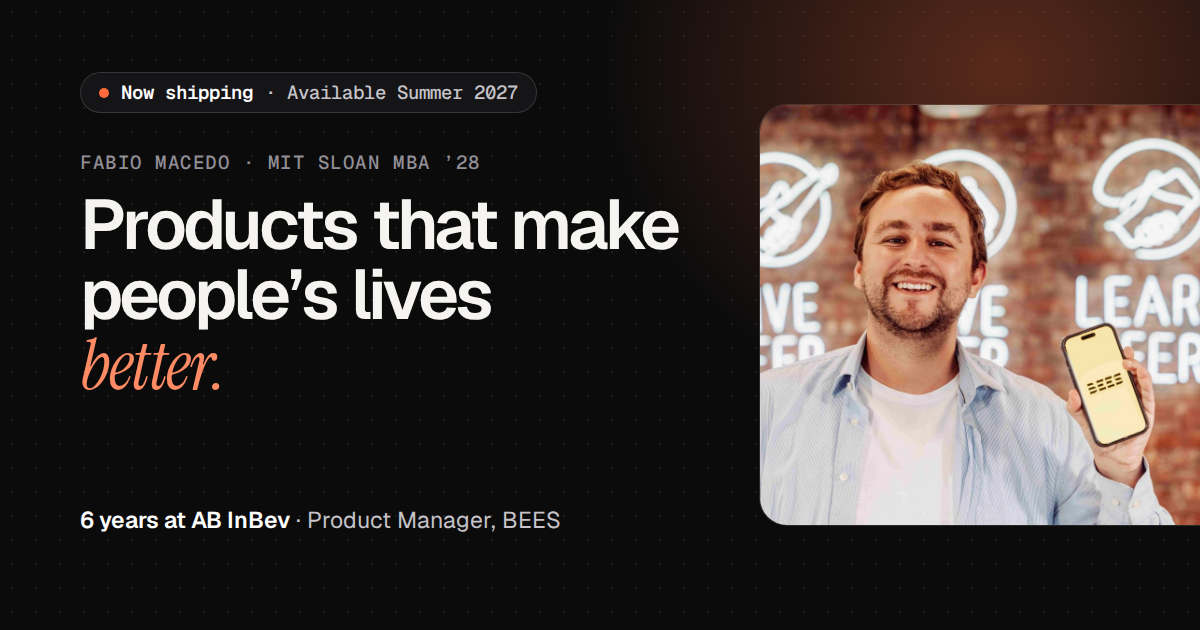
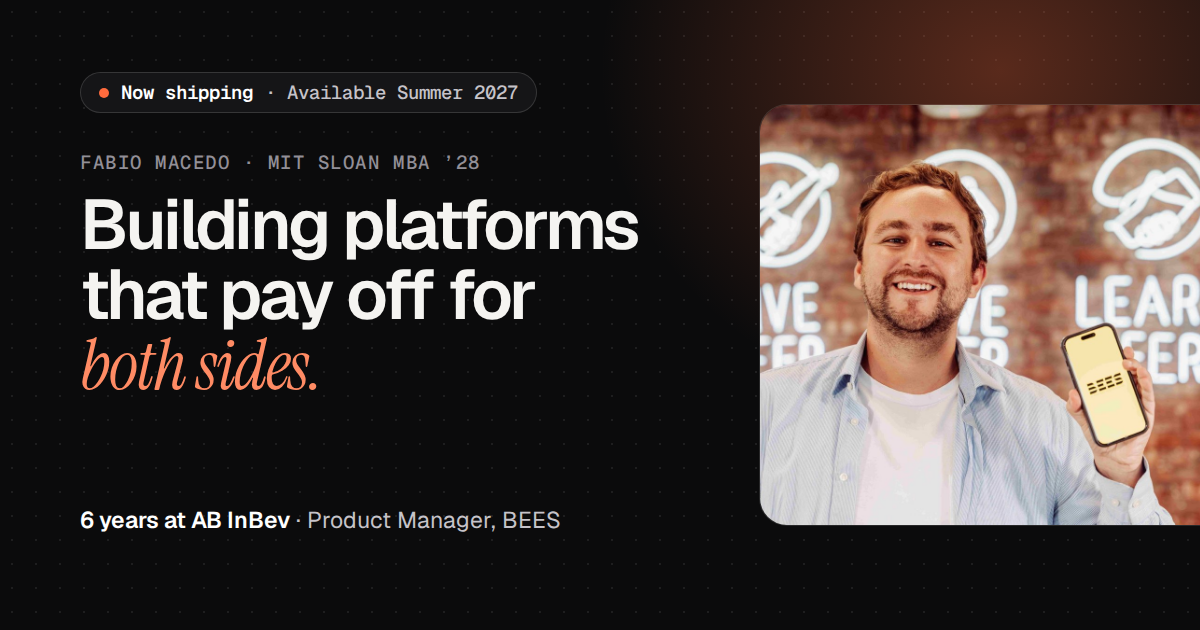
Apply third recruiter review: headline, credibility, photo card
- Headline: "Building platforms that pay off for both sides."
- +17.1% restated as year-over-year first-time purchases; the model was
  the only distribution change that year, with a 10% control group kept
  on the old model.
- Third-party deal: "Led ... end to end, from first contact through
  negotiation, pricing and launch."
- Chips: AB InBev Merit Award 2023-25 (top 5-10%); "Global Management
  Trainee" instead of "LDP".
- Photo card is now just the photo; no repeated stats, CV button or
  title label.
- Life coach only in Interests; roadmap leads with marketplaces and
  commerce.
- Print layout no longer leaves blank areas; small-phone fixes.

Claude-Session: https://claude.ai/code/session_01EuFxkNAtcpV4qLw3Jrt2bZ

Changed region(s): [[0.0617, 0.3016, 0.5858, 0.6333]]

diff --git a/index.html b/index.html
@@ -4,7 +4,7 @@
 <meta charset="utf-8">
 <meta name="viewport" content="width=device-width, initial-scale=1">
 <title>Fabio Macedo · Product Manager</title>
-<meta name="description" content="Product Manager building products that make people’s lives better. Six years at AB InBev, the last as Product Manager for BEES, serving 300,000 shopkeepers in Peru. MIT Sloan MBA '28.">
+<meta name="description" content="Product Manager building platforms that pay off for both sides. Six years at AB InBev, the last as Product Manager for BEES, serving 300,000 shopkeepers in Peru. MIT Sloan MBA '28.">
 <meta name="author" content="Fabio Macedo">
 <meta name="color-scheme" content="light dark">
 <link rel="canonical" href="https://fabiomn97.github.io/Who-I-Am/">
@@ -200,7 +200,8 @@ em.s{font-family:var(--serif); font-style:italic; font-weight:400; letter-spacin
   content:""; position:absolute; z-index:-1; width:720px; height:520px; right:-160px; top:-120px;
   background:radial-gradient(closest-side, var(--accent-soft), transparent); filter:blur(10px);
 }
-.hero-grid{display:grid; grid-template-columns:minmax(0,1.32fr) minmax(0,.88fr); gap:clamp(36px,5vw,72px); align-items:center}
+.hero-grid{display:grid; grid-template-columns:minmax(0,1.5fr) minmax(0,.7fr); gap:clamp(36px,5vw,72px); align-items:center}
+
 .announce{
   display:inline-flex; align-items:center; gap:10px; max-width:100%;
   padding:7px 8px 7px 12px; border-radius:99px; text-decoration:none;
@@ -219,7 +220,7 @@ em.s{font-family:var(--serif); font-style:italic; font-weight:400; letter-spacin
 .hero-id .hero-name{margin-top:5px; line-height:1.4}
 .hero-tag{margin-top:18px; font-size:clamp(19px,2vw,23px); font-weight:560; color:var(--ink); letter-spacing:-.02em}
 .hero-name{margin-top:30px; font:500 13px/1 var(--mono); letter-spacing:.08em; text-transform:uppercase; color:var(--ink-3)}
-.hero h1{margin-top:14px; font-size:clamp(42px,6.6vw,82px); letter-spacing:-.045em; line-height:.98; font-weight:600}
+.hero h1{margin-top:14px; font-size:clamp(34px,5.4vw,70px); letter-spacing:-.045em; line-height:.98; font-weight:600}
 .hero h1 em.s{font-size:1.06em; letter-spacing:-.02em; padding-right:.04em}
 .hero-sub{margin-top:24px; max-width:56ch; font-size:clamp(17px,1.6vw,19.5px); line-height:1.55; color:var(--ink-2)}
 .hero-sub strong{color:var(--ink); font-weight:600}
@@ -233,11 +234,7 @@ em.s{font-family:var(--serif); font-style:italic; font-weight:400; letter-spacin
   position:relative; background:var(--surface); border:1px solid var(--line); border-radius:var(--r-xl);
   box-shadow:var(--shadow-lg); overflow:hidden; max-width:430px; justify-self:end; width:100%;
 }
-.pcard-top{display:flex; align-items:center; justify-content:space-between; padding:12px 14px 12px 16px; border-bottom:1px solid var(--line-2)}
-.dots{display:flex; gap:6px}
-.dots i{width:10px; height:10px; border-radius:50%; background:var(--line); display:block}
-.pcard-top .chip{font-size:11px}
-.pcard-photo{position:relative; aspect-ratio:4/3; overflow:hidden; background:var(--surface-2)}
+.pcard-photo{position:relative; aspect-ratio:4/5; overflow:hidden; background:var(--surface-2)}
 .pcard-photo img{width:100%; height:100%; object-fit:cover; object-position:50% 40%}
 .pcard-photo .tag{
   position:absolute; left:14px; bottom:14px; display:inline-flex; align-items:center; gap:8px;
@@ -245,18 +242,6 @@ em.s{font-family:var(--serif); font-style:italic; font-weight:400; letter-spacin
   background:rgba(12,12,13,.62); -webkit-backdrop-filter:blur(8px); backdrop-filter:blur(8px);
 }
 .pcard-photo .tag .pulse{color:#FF8B64}
-.pcard-body{padding:18px 18px 8px}
-.pcard-title{display:flex; align-items:baseline; justify-content:space-between; gap:12px}
-.pcard-title h3{font-size:21px; letter-spacing:-.025em}
-.pcard-title span{font:500 12px/1 var(--mono); color:var(--ink-3)}
-.pcard-role{margin-top:4px; font-size:14.5px; color:var(--ink-3)}
-.spec-list{margin-top:14px; border-top:1px solid var(--line-2)}
-.spec-list div{display:flex; justify-content:space-between; gap:16px; padding:9px 0; border-bottom:1px solid var(--line-2); font-size:14px}
-.spec-list div:last-child{border-bottom:0}
-.spec-list dt{color:var(--ink-3); font:500 12px/1.6 var(--mono); letter-spacing:.02em; text-transform:uppercase; flex:none}
-.spec-list dd{margin:0; color:var(--ink); text-align:right; font-weight:500}
-.pcard-foot{padding:0 18px 18px}
-.pcard-foot .btn{width:100%}
 
 @media (max-width:900px){
   .hero-grid{grid-template-columns:1fr}
@@ -610,9 +595,10 @@ em.s{font-family:var(--serif); font-style:italic; font-weight:400; letter-spacin
 .tool span{font-size:15px; color:var(--ink-2)}
 @media (max-width:520px){.tool{grid-template-columns:1fr; gap:4px}}
 .term{background:#0E0E10; color:#E9E7E4; border-radius:var(--r-lg); border:1px solid rgba(255,255,255,.08); box-shadow:var(--shadow-lg); overflow:hidden; font:400 13.5px/1.75 var(--mono)}
+.dots{display:flex; gap:6px}
+.dots i{width:10px; height:10px; border-radius:50%; background:var(--line); display:block}
 .term-top{display:flex; align-items:center; gap:12px; padding:12px 14px; border-bottom:1px solid rgba(255,255,255,.08); color:#8E8B92; font-size:12px}
-.term-top .dots i{background:rgba(255,255,255,.16)}
-.term pre{margin:0; padding:18px 18px 20px; white-space:pre; overflow-x:auto; font:inherit}
+.term-top .term pre{margin:0; padding:18px 18px 20px; white-space:pre; overflow-x:auto; font:inherit}
 @media (max-width:560px){.term{font-size:11px; line-height:1.7} .term pre{padding:16px 14px 18px}}
 .term .p{color:#FF8B64} .term .c{color:#8E8B92} .term .ok{color:#46D18C} .term .w{color:#fff; font-weight:600}
 @media (max-width:860px){.build-grid{grid-template-columns:1fr}}
@@ -654,10 +640,16 @@ em.s{font-family:var(--serif); font-style:italic; font-weight:400; letter-spacin
   .gal{flex-wrap:wrap; overflow:visible} .gal-item{height:200px} 
   .nav,.hero::before,.hero::after,.cta::after,.seg,.skip{display:none!important}
   body{background:#fff; color:#222; font-size:12pt}
-  .sec{padding-block:28px}
+  .sec{padding-block:20px}
   .demo-col{position:static}
-    h2,h3{break-after:avoid}
+  .gal--grid .gal-item{height:auto}
+  .pcard,.demo,.rel-card,.rv,.lab,.col,.term,.cta,.afc,.spot,.flow,.dc-shot{box-shadow:none!important}
+  .rv,.lab,.spot,.ft,.result,.spec,.kpi,.tk,.flow,.dc-shot,.lnk,.gal-item{break-inside:avoid}
+  .hero-grid{grid-template-columns:1fr 220px!important}
+  h2,h3{break-after:avoid}
 }
+@media (max-width:900px){.hero-grid{grid-template-columns:minmax(0,1fr)!important} .hero .pcard{max-width:260px!important; justify-self:start}}
+.hero-meta .chip{white-space:normal; line-height:1.35; max-width:100%}
 </style>
 </head>
 <body>
@@ -711,9 +703,8 @@ em.s{font-family:var(--serif); font-style:italic; font-weight:400; letter-spacin
         <span class="go" aria-hidden="true"><svg viewBox="0 0 16 16" fill="none" stroke="currentColor" stroke-width="2" stroke-linecap="round" stroke-linejoin="round"><path d="M3 8h10M9 4l4 4-4 4"/></svg></span>
       </a>
       <p class="hero-name">Fabio Macedo · 6 years at AB InBev, 1 as Product Manager</p>
-      <h1>Products that make people’s lives <em class="s">better.</em></h1>
-      <p class="hero-tag">I make marketplaces reward the right behavior.</p>
-      <p class="hero-sub">Six years at AB InBev, five of them on <strong>BEES</strong>, its B2B commerce app for <strong>300,000 shopkeepers</strong> in Peru, and the last as its Product Manager. I fixed what the ML model was optimizing for (<strong>+17.1% first-time purchases vs. a control group</strong>) and built BEES Peru’s first monetization strategy (<strong>$2.6M EBITDA</strong> in year one). Now at MIT Sloan, building toward products that reach <strong>millions of people</strong>.</p>
+      <h1>Building platforms that pay off for <em class="s" style="white-space:nowrap">both sides.</em></h1>
+      <p class="hero-sub">Six years at AB InBev, five of them on <strong>BEES</strong>, its B2B commerce app for <strong>300,000 shopkeepers</strong> in Peru, and the last as its Product Manager. I fixed what the ML model was optimizing for (<strong>+17.1% first-time purchases</strong> year over year) and built BEES Peru’s first monetization strategy (<strong>$2.6M EBITDA</strong> in year one), while adding <strong>$100 a month</strong> to the income of 10,000+ shopkeepers. Now at MIT Sloan, building toward products that reach <strong>millions of people</strong>.</p>
       <p class="hero-ai"><span class="chip chip--info" style="margin-right:8px; vertical-align:2px">Builds with AI</span>~20 LLM-assisted A/B tests at BEES, and a Claude Code bot at Sloan that 5 classmates now run.</p>
       <div class="cta-row">
         <a class="btn btn--primary" href="mailto:fabiom97@mit.edu?subject=Let%E2%80%99s%20talk"><svg viewBox="0 0 24 24" fill="none" stroke="currentColor" stroke-width="1.8" stroke-linecap="round" stroke-linejoin="round" aria-hidden="true"><rect x="3" y="5" width="18" height="14" rx="2.5"/><path d="m4 7 8 6 8-6"/></svg>Email me</a>
@@ -723,32 +714,17 @@ em.s{font-family:var(--serif); font-style:italic; font-weight:400; letter-spacin
       </div>
       <div class="hero-meta">
         <span class="chip chip--accent">PM Club VP of Recruiting</span>
-        <span class="chip">1 of 3 from 1,700+ · AB InBev LDP</span>
+        <span class="chip">AB InBev Merit Award 2023–25 · top 5–10%</span>
+        <span class="chip">1 of 3 from 1,700+ · Global Management Trainee</span>
         <span class="chip">Harvard WorldMUN 2018 champions · head delegate</span>
         <span class="chip">Dean’s Fellow</span>
       </div>
     </div>
 
-    <aside class="pcard" aria-label="Product listing card">
-      <div class="pcard-top">
-        <div class="dots" aria-hidden="true"><i></i><i></i><i></i></div>
-        <span class="chip">Product Manager</span>
-      </div>
+    <aside class="pcard" aria-label="Photo of Fabio">
       <div class="pcard-photo">
         <img src="assets/portrait.jpg" alt="Fabio Macedo, smiling, holding up a phone showing the BEES app" width="1200" height="900">
         <span class="tag"><span class="pulse" aria-hidden="true"></span>MIT Sloan MBA ’28</span>
-      </div>
-      <div class="pcard-body">
-        <div class="pcard-title"><h3>Fabio Macedo</h3><span>6 yrs · AB InBev</span></div>
-        <p class="pcard-role">Product Manager · <span style="white-space:nowrap">MIT Sloan MBA ’28</span></p>
-        <dl class="spec-list">
-          <div><dt>Built for</dt><dd>300K shopkeepers</dd></div>
-          <div><dt>Based in</dt><dd>Lima → Cambridge, MA</dd></div>
-        </dl>
-      </div>
-      <div class="pcard-foot">
-        <a class="btn btn--ghost" href="assets/Fabio-Macedo-CV.pdf" download>
-          <svg viewBox="0 0 16 16" fill="none" stroke="currentColor" stroke-width="1.8" stroke-linecap="round" stroke-linejoin="round" aria-hidden="true"><path d="M8 2.5v8M4.5 7 8 10.5 11.5 7M3 13.5h10"/></svg><span>Download my CV</span></a>
       </div>
     </aside>
   </div>
@@ -776,7 +752,7 @@ em.s{font-family:var(--serif); font-style:italic; font-weight:400; letter-spacin
     <div class="specs">
       <div class="spec"><div class="spec-num">$2.2M</div><p class="spec-label">Promotional budget moved to volume-driving discounts after ~20 LLM-assisted A/B tests</p><p class="spec-src">PM, Online Strategy</p></div>
       <div class="spec"><div class="spec-num">8M<small>+/mo</small></div><p class="spec-label">Recommendations shown by the ML model I re-pointed at harder sales</p><p class="spec-src">PM, Online Strategy</p></div>
-      <div class="spec"><div class="spec-num">+17.1%</div><p class="spec-label">First-time purchases vs. a 10% control group (difference-in-differences)</p><p class="spec-src">Case study ↓</p></div>
+      <div class="spec"><div class="spec-num">+17.1%</div><p class="spec-label">First-time purchases, H1 2026 vs. H1 2025, after the new model launched</p><p class="spec-src">Case study ↓</p></div>
       <div class="spec"><div class="spec-num">10K<small>+</small></div><p class="spec-label">Shopkeepers on a co-funding model I created with no precedent, adding $100/mo to their income</p><p class="spec-src">Monetization Manager</p></div>
       <div class="spec"><div class="spec-num">$2.6M</div><p class="spec-label">Year-one EBITDA from BEES Peru’s first monetization strategy, 13 partner companies</p><p class="spec-src">Digitalization Lead</p></div>
       <div class="spec"><div class="spec-num">100%</div><p class="spec-label">Promotion rate across my three direct reports</p><p class="spec-src">People leadership</p></div>
@@ -787,7 +763,7 @@ em.s{font-family:var(--serif); font-style:italic; font-weight:400; letter-spacin
         <ul class="dayone">
           <li><span><strong>ML product tradeoffs.</strong> Coverage vs. precision, defined with Data Science, shipped with Engineering.</span></li>
           <li><span><strong>Incentive &amp; pricing design.</strong> Loyalty logic, discounts, co-funding, monetization.</span></li>
-          <li><span><strong>Partnerships &amp; new revenue.</strong> Implemented BEES Peru’s first third-party distribution deal end to end; built BEES Peru’s first monetization strategy.</span></li>
+          <li><span><strong>Partnerships &amp; new revenue.</strong> Led BEES Peru’s first third-party distribution deal end to end; built BEES Peru’s first monetization strategy.</span></li>
           <li><span><strong>Go-to-market &amp; adoption.</strong> Positioning, partner messaging, and training 1,000+ reps in the field.</span></li>
         </ul>
       </div>
@@ -828,14 +804,14 @@ em.s{font-family:var(--serif); font-style:italic; font-weight:400; letter-spacin
           <li class="step step--win">
             <h3>What moved</h3>
             <div class="results">
-              <div class="result"><b>+17.1%</b><span>First-time purchases vs. control, H1 2026</span></div>
+              <div class="result"><b>+17.1%</b><span>First-time purchases, H1 2026 vs. H1 2025</span></div>
               <div class="result"><b>+7.6%</b><span>Distinct SKUs sold, year over year</span></div>
               <div class="result"><b>3% → 10%</b><span>Medium/hard recommendations’ share of distinct SKUs sold</span></div>
               <div class="result"><b>#6+ → #1–2</b><span>Carousel position of medium/hard recommendations</span></div>
             </div>
           </li>
         </ol>
-        <p class="method"><b>How we measured it</b> Difference-in-differences. A control group of 10% of shopkeepers stayed on the old model. We compared each group’s growth from H1 2025 to H1 2026; first-time purchases grew 17.1% more in the test group. The other results are year over year.</p>
+        <p class="method"><b>How we measured it</b> All results are year over year (H1 2026 vs. H1 2025). The new model was the only change to distribution that year, and we kept 10% of shopkeepers on the old model as a control group.</p>
         <div class="context">
           <b>What I took from it</b>
           The model was doing exactly what we rewarded. When a metric is hit and the goal is missed, look at the incentives before the algorithm.
@@ -935,7 +911,7 @@ em.s{font-family:var(--serif); font-style:italic; font-weight:400; letter-spacin
           </div>
         </div>
         <figure class="dc-shot">
-          <img src="assets/bees-home-rewards.jpg" alt="The BEES app home page today: products in the Pedido Fácil carousel show yellow 'Gana 900 puntos' and 'Gana 4,000 puntos' reward badges next to the price" width="640" height="1123" loading="lazy" decoding="async">
+          <img src="assets/bees-home-rewards.jpg" alt="The BEES app home page today: products in the Pedido Fácil carousel show yellow 'Gana 900 puntos' and 'Gana 4,000 puntos' reward badges next to the price" width="640" height="1123" decoding="async">
           <figcaption><b>BEES today.</b> Rewards sit on the home page, next to the price: “Gana 900 puntos” means “earn 900 points.”</figcaption>
         </figure>
       </div>
@@ -1033,7 +1009,7 @@ em.s{font-family:var(--serif); font-style:italic; font-weight:400; letter-spacin
           <h3>Product Manager, Online Strategy</h3>
           <p class="rel-org"><b>BEES · AB InBev</b> · Lima, Peru · B2B e-commerce marketplace serving 300K+ shopkeepers</p>
           <ul class="notes">
-            <li><span class="chip chip--accent">Shipped</span><span>ML product recommendation model with Data Science and Engineering, balancing coverage vs. precision across <strong>8M+ recommendations a month</strong>. <strong>+17.1%</strong> first-time purchases vs. a control group; <strong>+7.6%</strong> distinct SKUs sold YoY. <a href="#feature">Case study ↑</a></span></li>
+            <li><span class="chip chip--accent">Shipped</span><span>ML product recommendation model with Data Science and Engineering, balancing coverage vs. precision across <strong>8M+ recommendations a month</strong>. <strong>+17.1%</strong> first-time purchases and <strong>+7.6%</strong> distinct SKUs sold, year over year. <a href="#feature">Case study ↑</a></span></li>
             <li><span class="chip chip--ok">Added</span><span>An <strong>LLM-assisted A/B testing workflow</strong> in Microsoft Copilot. From a test template (variables to hold fixed and to test), it designed and split several test groups against one control, then read out uplift and statistical significance; Data Science validated every readout. About <strong>5 tests a month for 4 months</strong> comparing discounts with loyalty points moved <strong>$2.2M</strong> into volume-driving promotions, in a year company volume grew 4%.</span></li>
             <li><span class="chip chip--info">Improved</span><span>Redesigned the loyalty program’s reward-allocation logic and secured C-suite buy-in. Share of investment driving incremental revenue: <strong>74% → 85%</strong> YoY.</span></li>
             <li><span class="chip chip--info">Improved</span><span>Brought competitive-strategy data into recommendations for the first time, with Data Science, Revenue Management and Sales, contributing to a <strong>+1 pp market share</strong> gain (H1 2026 vs. H1 2025).</span></li>
@@ -1068,7 +1044,7 @@ em.s{font-family:var(--serif); font-style:italic; font-weight:400; letter-spacin
           <p class="rel-org"><b>BEES · AB InBev</b> · Lima, Peru</p>
           <ul class="notes">
             <li><span class="chip chip--accent">Shipped</span><span>Defined user stories and requirements with Analytics and Design for a feature that made loyalty rewards more visible. Users earning rewards: <strong>44% → 83%</strong> (2022 → 2023).</span></li>
-            <li><span class="chip chip--ok">Added</span><span>Implemented BEES Peru’s <strong>first third-party distribution deal</strong> end to end: partner negotiation, pricing, launch strategy and running the operation. <strong>$500K GMV</strong> in year one, with no existing playbook.</span></li>
+            <li><span class="chip chip--ok">Added</span><span>Led BEES Peru’s <strong>first third-party distribution deal</strong> end to end, from first contact through negotiation, pricing and launch. <strong>$500K GMV</strong> in year one.</span></li>
             <li><span class="chip chip--ok">Added</span><span>BEES Peru’s <strong>first monetization strategy</strong>: positioning, partner messaging and pricing built on partner and customer needs. 13 companies onboarded, <strong>$2.6M EBITDA</strong> in year one.</span></li>
           </ul>
         </article>
@@ -1146,7 +1122,7 @@ em.s{font-family:var(--serif); font-style:italic; font-weight:400; letter-spacin
         <div class="col-h"><b>Professional</b><span class="chip">Long term</span></div>
         <div class="tk tk--hot"><h4>Products used by millions</h4><p>Take what worked for 300,000 shopkeepers to products millions of people use: saving them time, giving them a better experience, helping them earn more.</p></div>
         <div class="tk"><h4>Results people remember</h4><p>Keep delivering the numbers, and make sure the work improves someone’s life along the way.</p></div>
-        <div class="tk"><h4>Work on what I love</h4><p>Technology and digital platforms, gaming, movies and TV: products I already use and care about.</p></div>
+        <div class="tk"><h4>Build marketplaces and commerce at scale</h4><p>Two-sided platforms where getting incentives right moves both the business and the people on it. Gaming, film and TV are the products I love as a user.</p></div>
       </div>
       <div class="col">
         <div class="col-h"><b>Learning</b><span class="chip chip--accent"><span class="pulse" aria-hidden="true"></span>In progress</span></div>
@@ -1155,8 +1131,7 @@ em.s{font-family:var(--serif); font-style:italic; font-weight:400; letter-spacin
       </div>
       <div class="col">
         <div class="col-h"><b>Personal</b><span class="chip">Ongoing</span></div>
-        <div class="tk"><h4>Become a certified life coach</h4><p>The ICF certification, after the MBA. Helping people figure out what they actually want is a skill I use everywhere.</p></div>
-        <div class="tk"><h4>Grow the people around me</h4><p>Teams where everyone develops, like the three reports who were all promoted and the 1,000+ reps trained through BEES School.</p></div>
+                <div class="tk"><h4>Grow the people around me</h4><p>Teams where everyone develops, like the three reports who were all promoted and the 1,000+ reps trained through BEES School.</p></div>
       </div>
     </div>
 

diff --git a/README.md b/README.md
@@ -13,7 +13,8 @@ a versioned changelog of my career, side projects, and interests.
 
 | Tool | What it did |
 |---|---|
-| **Claude Code** | Interviewed me over several rounds (positioning, target roles, the stories behind the numbers), drew on my CV and recommendations, then wrote and designed the site. I approved the structure and every number. |
+| **Me** | Set the goal, chose every story, number and photo, and directed the design through several rounds of feedback, including recruiter reviews. |
+| **Claude Code** | Interviewed me, drafted the copy, and wrote the HTML and CSS; checked every version on phone and desktop before shipping. |
 | **GitHub** | Hosts the code. A GitHub Actions workflow (`.github/workflows/deploy.yml`) publishes it to GitHub Pages on every push to `main`. |
 
 No framework and no build step: one hand-written `index.html` (HTML, CSS and a few lines of
